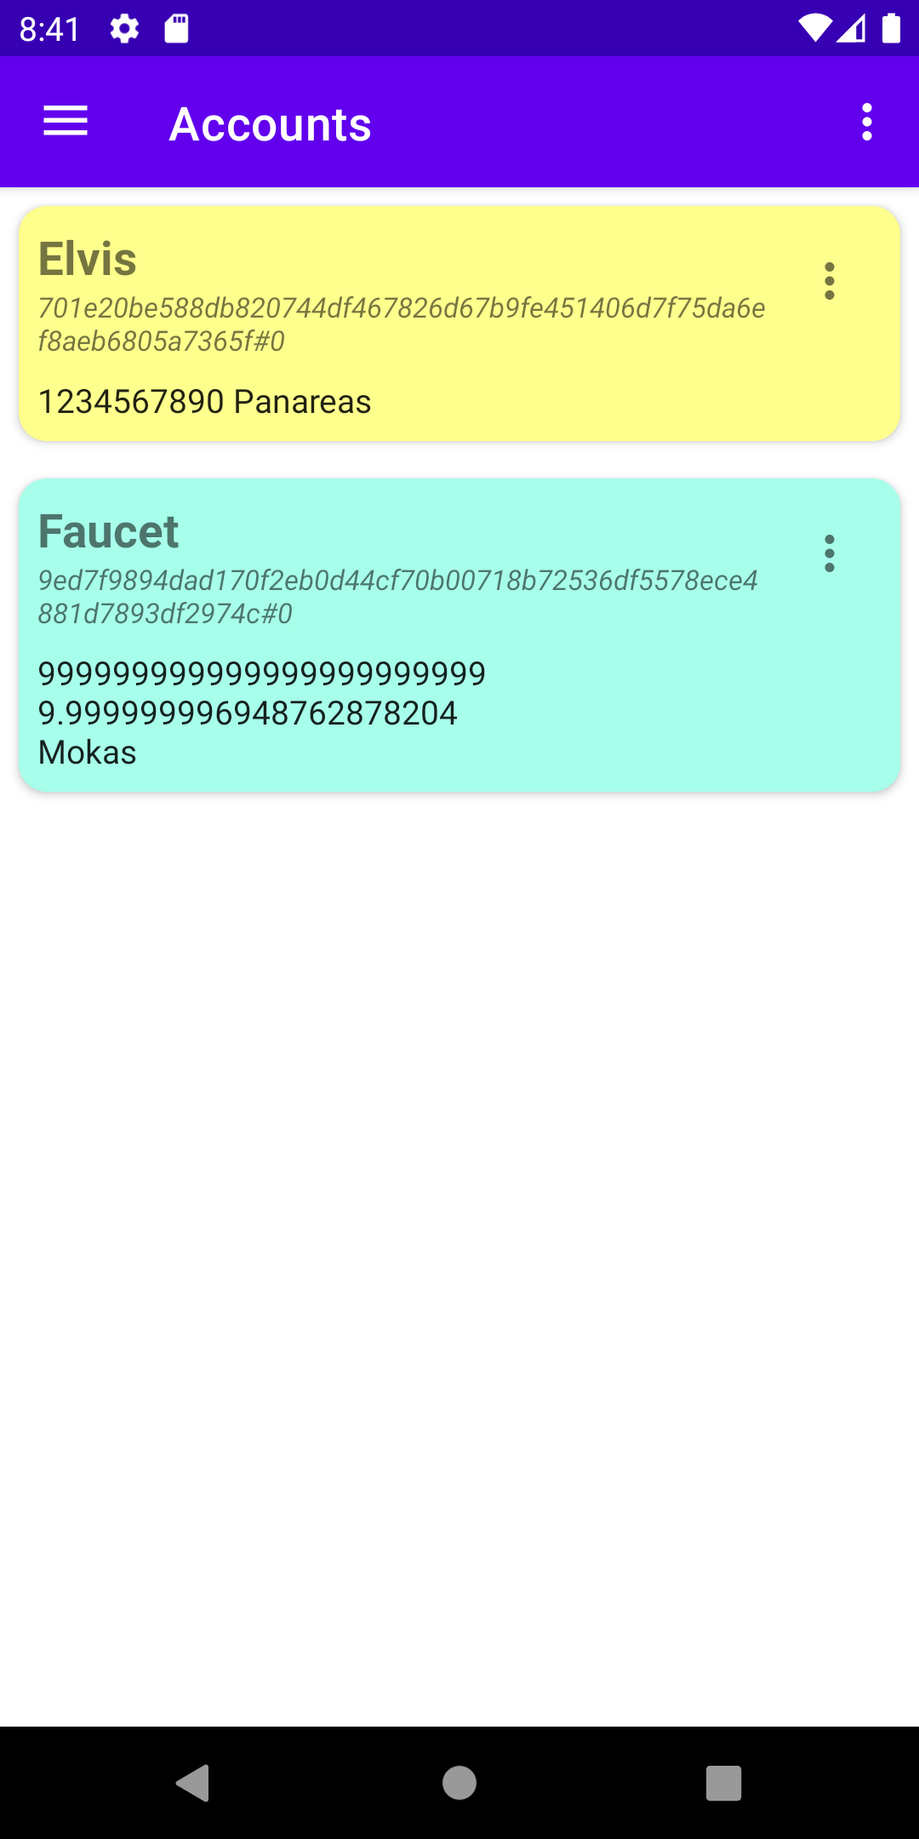
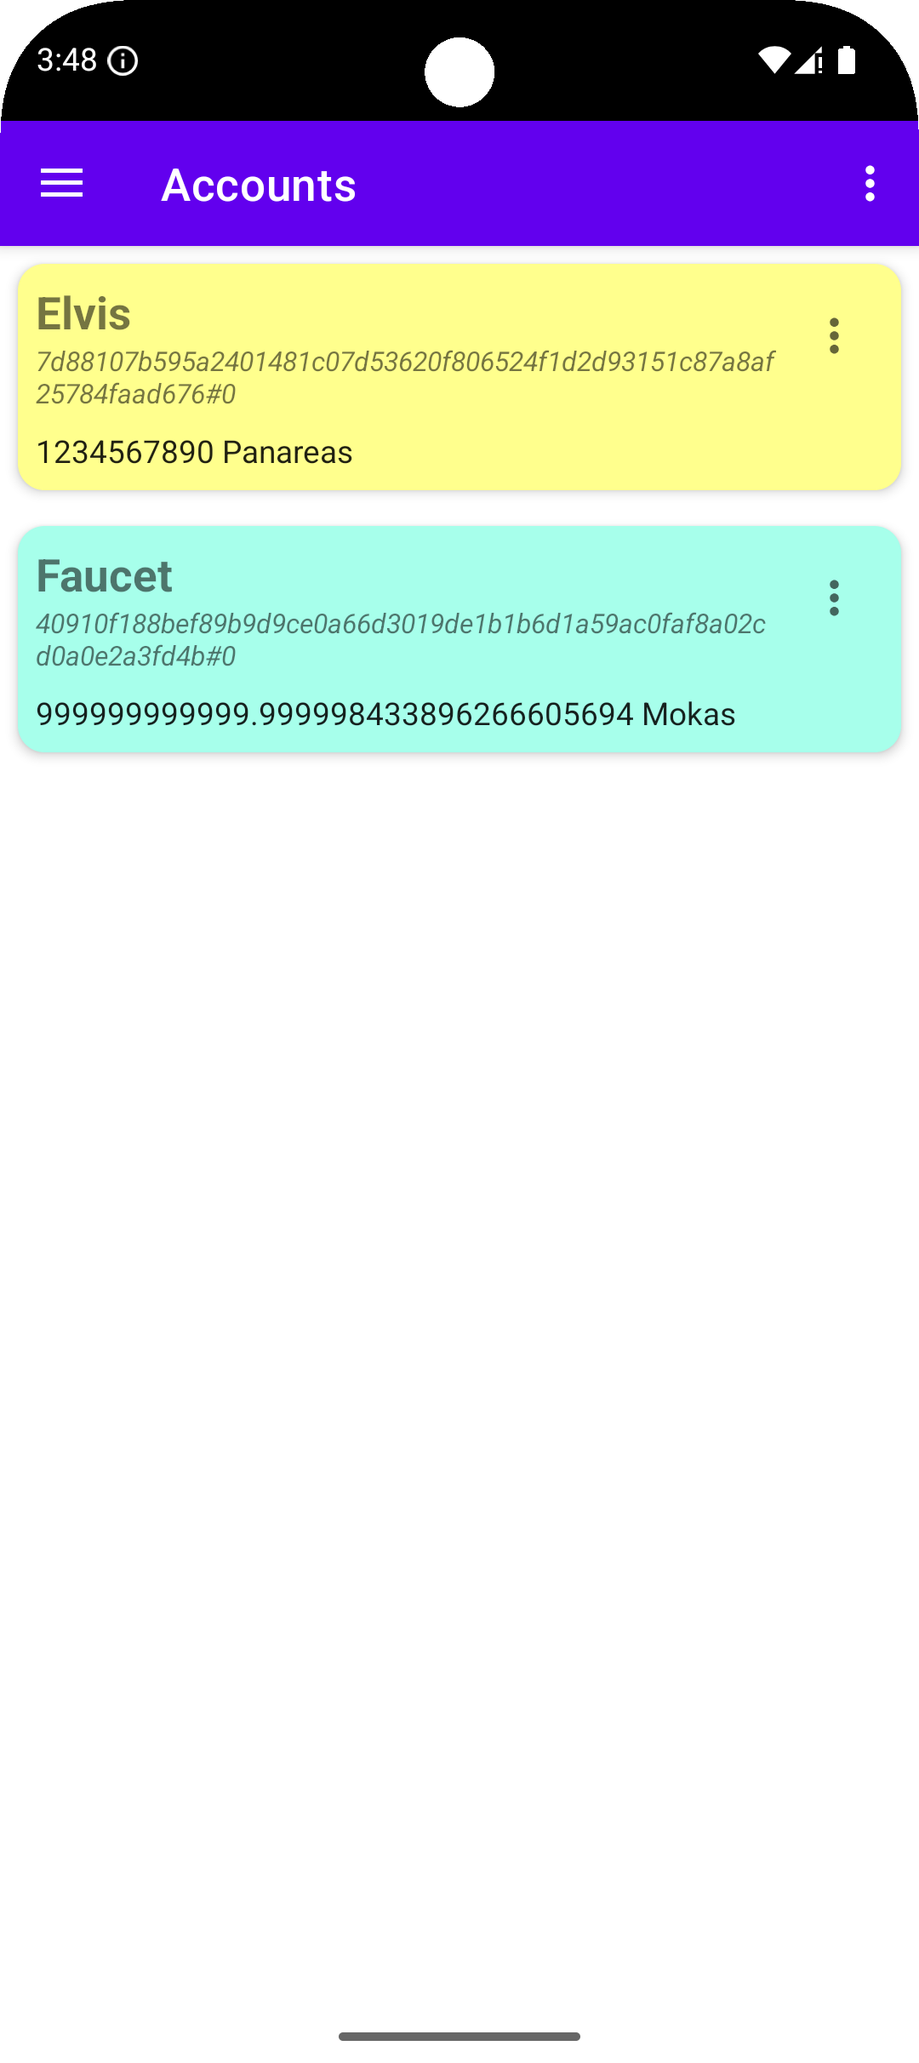
Added the import account documentation to the tutorial

Changed region(s): [[0.0, 0.0, 1.0, 0.4343], [0.0, 0.9306, 1.0, 1.0]]

diff --git a/io-hotmoka-tutorial/src/main/latex/getting_started.tex b/io-hotmoka-tutorial/src/main/latex/getting_started.tex
@@ -313,7 +313,7 @@ top left area of the app.
 %
 \begin{figure}[t]
   \begin{center}
-    \includegraphics[width=6cm]{pics/mokito_start}
+    \includegraphics[width=5cm]{pics/mokito_start}
   \end{center}
   \caption{The starting screen of the Mokito app.}
   \label{fig:mokito_start}
@@ -407,7 +407,7 @@ already contains some code and some Java objects, as shown in Fig.~\ref{fig:mani
     \end{tikzpicture}
   \end{center}
 
-  \caption{Manifest, gamete, gas station and validators.\index{gamete}\index{manifest}\index{gas station}\index{validators}}
+  \caption{Manifest, gamete, gas station and validators.}
   \label{fig:manifest}
 \end{figure}
 %
@@ -448,24 +448,25 @@ We have used the moka command to see the manifest of a node. You can also use th
 Mokito app for that. Namely, tap on the app menu icon on the top-left corner of the screen
 and select \emph{Manifest} from the menu that will appear (see Fig.~\ref{fig:mokito_menu}).
 %
-\begin{figure}[t]
-  \begin{center}
-    \includegraphics[width=6cm]{pics/mokito_menu}
-  \end{center}
+\begin{figure}
+\centering
+\begin{subfigure}{.5\textwidth}
+  \centering
+  \includegraphics[width=.45\linewidth]{pics/mokito_menu}
   \caption{The menu of the Mokito app.}
   \label{fig:mokito_menu}
+\end{subfigure}%
+\begin{subfigure}{.5\textwidth}
+  \centering
+  \includegraphics[width=.45\linewidth]{pics/mokito_manifest}
+  \caption{The manifest of the Hotmoka node.}
+  \label{fig:mokito_manifest}
+\end{subfigure}
+\caption{From the top-level corner menu of Mokito, it is possible to select the \emph{Manifest} item to show the manifest of the Hotmoka node.}
 \end{figure}
 %
 After tapping on \emph{Manifest}, a new screen will appear, containing the same information
 that we saw with the command \texttt{moka nodes manifest show} (see Fig.~\ref{fig:mokito_manifest}).
-%
-\begin{figure}[t]
-  \begin{center}
-    \includegraphics[width=6cm]{pics/mokito_manifest}
-  \end{center}
-  \caption{The manifest of the Hotmoka node, shown in the Mokito app.}
-  \label{fig:mokito_manifest}
-\end{figure}
 
 \section{Creation of a first account}\label{sec:creation_account}
 
@@ -526,7 +527,7 @@ password of the account (in our case, we have chosen \texttt{chocolate}),
 it allows its owner to control your account and spend its coins.
 Note that the password is not written anywhere: if you lose it, it cannot be recovered.
 
-Let us check that our account really exists at its address,
+Let us check that our account really exists,
 by querying the node about the state of the object allocated at \texttt{\accountOne}:
 %
 \input{moka_objects_show_account1_command}
@@ -555,3 +556,184 @@ will refer to the jar that contains its bytecode.
 In the following, you can use the \texttt{moka objects show} command on any object,
 not just on your own accounts, whenever you want to inspect its state
 (that includes the state inherited from its superclasses).
+
+\begin{figure}[t]
+  \begin{center}
+    \begin{tikzpicture}[scale=0.5,>=Stealth]
+      \draw[rounded corners] (0,-9) rectangle (21,19.3) [fill=statebackgroundcolor];
+
+      \draw[rounded corners] (0.5,16) rectangle +(20,2.8) [fill=jarbackgroundcolor];
+      \draw (1,18) node[right] {jar: classes of the Takamaka runtime, such as};
+      \draw (1,17) node[right] {\texttt{Contract}, \texttt{Storage}, \texttt{@View}, \texttt{@FromContract}\ldots};
+      \draw (-2,18.2) node[left] {Takamaka code};
+      \draw (-2,17.1) node[left] {at \texttt{\takamakaCodeShort{}}};
+      \draw[->,thick] (-2,17.5) -- +(2.5,0);
+
+      \draw[->,thick] (6,13.3) -- +(0,2.7);
+      \draw (6,14.8) node[left] {classpath};
+      \draw (-2,12.8) node[left] {manifest};
+      \draw (-2,11.7) node[left] {at \texttt{\manifestShort{}}};
+      \draw[->,thick] (-2,12.3) -- +(2.5,0);
+
+      \draw[rounded corners] (0.5,10.8) rectangle +(11,2.8) [fill=objectbackgroundcolor];
+      \draw (1,12.7) node[right] {chainId: \chainId{}};
+      \draw (1,11.7) node[right] {signature: ed25519};
+
+      \draw[<-,thick] (4,8.1) -- +(0,2.7);
+      \draw (4,9.5) node[right] {gamete};
+      \draw[->,thick] (2,10.8) .. controls (2,5) .. node[very near start,sloped,above] {\small gas station} (3,3.8);
+      \draw[->,thick] (1,10.8) .. controls (1,2) .. node[near end,sloped,below] {\small validators} (1.5,-1.2);
+
+      \draw[rounded corners] (3,5.3) rectangle +(8,2.8) [fill=objectbackgroundcolor];
+      \draw (3.5,6.7) node[right] {balance: 9999\ldots};
+      \draw (-2,7.2) node[left] {gamete};
+      \draw (-2,6.1) node[left] {at \texttt{\gameteShort{}}};
+      \draw[->,thick] (-2,6.7) -- +(5,0);
+      \draw[->,thick] (10,8.1) .. controls (14,13) .. node[near end,sloped,below] {classpath} (14,16.1);
+
+      \draw[rounded corners] (2,1) rectangle +(8,2.8) [fill=objectbackgroundcolor];
+      \draw (2.5,2.5) node[right] {gasPrice: 1};
+      \draw (-2,3) node[left] {gas station};
+      \draw (-2,2) node[left] {at \texttt{\gasStationShort{}}};
+      \draw[->,thick] (-2,2.5) -- +(4,0);
+      \draw[->,thick] (9,3.8) .. controls (15,8) .. node[near end,sloped,below] {classpath} (16,16.1);
+
+      \draw[rounded corners] (0.5,-4) rectangle +(10.5,2.8) [fill=objectbackgroundcolor];
+      \draw (1,-2) node[right] {number of validators: 0};
+      \draw (1,-3.1) node[right] {current supply: 1209\ldots};
+      \draw (-2,-2) node[left] {validators};
+      \draw (-2,-3) node[left] {at \texttt{\validatorsShort{}}};
+      \draw[->,thick] (-2,-2.5) -- +(2.5,0);
+      \draw[->,thick] (9.5,-1.2) .. controls (17,8) .. node[near end,sloped,below] {classpath} (18,16.1);
+
+      \draw[rounded corners] (3,-8.5) rectangle +(11,2.8) [fill=objectbackgroundcolor];
+      \draw (3.5,-7) node[right] {balance: \accountOneBalance};
+      \draw (-2,-6.6) node[left] {account1};
+      \draw (-2,-7.7) node[left] {at \texttt{\accountOneShort{}}};
+      \draw[->,thick] (-2,-7) -- +(5,0);
+      \draw[->,thick] (10,-5.7) .. controls (18,0) .. node[near end,sloped,below] {classpath} (20,16.1);
+    \end{tikzpicture}
+  \end{center}
+
+  \caption{The state of the network nodes after the creation of our new account.}
+  \label{fig:state_with_account}
+\end{figure}
+
+Fig.~\ref{fig:state_with_account}
+shows the state of the network nodes after the creation of our new account.
+Since out test node is part of a blockchain, it is not only its state that has been modified,
+but also that of all nodes that are part of that blockchain.
+
+Whenever your account will run out of coins, you can recharge it with the
+\texttt{moka send} command, by using, again, the faucet as source of coins. Namely,
+if you want to recharge your account with \accountOneRecharge{} extra coins, you can type:
+%
+\input{moka_accounts_send_account1_command}
+\input{moka_accounts_send_account1_output}
+%
+You can then use the \texttt{moka objects show} command to verify that the balance of
+your account has been actually increased with \accountOneRecharge{} extra coins.
+
+The creation of a new account from the faucet is possible from the Mokito app as well.
+Namely, use the menu of the app to tap on the \emph{Accounts} item to see the
+list of available accounts (Fig.~\ref{fig:mokito_start}). From there, tap on the
+menu icon on the right of the \emph{Faucet} account and select \emph{Create a new account}
+(see Fig.~\ref{fig:mokito_new_account}).
+%
+\begin{figure}
+\centering
+\begin{subfigure}{.5\textwidth}
+  \centering
+  \includegraphics[width=.45\linewidth]{pics/mokito_new_account}
+  \caption{The menu for creating a new account.}
+  \label{fig:mokito_new_account}
+\end{subfigure}%
+\begin{subfigure}{.5\textwidth}
+  \centering
+  \includegraphics[width=.45\linewidth]{pics/mokito_elvis_new_account}
+  \caption{The form specifying a new account Elvis.}
+  \label{fig:mokito_elvis_new_account}
+\end{subfigure}
+\caption{From the contextual menu of the faucet account in Mokito, it is possible to require the creation of a new account, by specifying its name, password and initial balance.}
+\end{figure}
+%
+A form will appear, where you can specify the
+name for the account, its password and the initial balance (that will be paid by the faucet).
+For instance, you can fill it as in Fig.~\ref{fig:mokito_elvis_new_account}.
+%
+\begin{commentbox}
+The name of the accounts is a feature of Mokito to simplify the identification
+of the accounts. However, keep in mind that accounts have no name in Hotmoka: they
+are just identified by their storage reference. For instance, moka currently does not
+allow one to associate names to accounts.
+\end{commentbox}
+%
+After tapping on the \emph{Create new account} button, the new account will be created and
+its information will be shown, as in Fig.~\ref{fig:mokito_show_elvis}.
+Note, in this screen, the storage reference of the new account
+and the presence of a 36 words passphrase.
+%
+\begin{figure}
+\centering
+\begin{subfigure}{.5\textwidth}
+  \centering
+  \includegraphics[width=.45\linewidth]{pics/mokito_show_elvis}
+  \caption{The new account Elvis.}
+  \label{fig:mokito_show_account}
+\end{subfigure}%
+\begin{subfigure}{.5\textwidth}
+  \centering
+  \includegraphics[width=.45\linewidth]{pics/mokito_added_elvis}
+  \caption{Elvis added to the list of accounts.}
+  \label{fig:mokito_added_elvis}
+\end{subfigure}
+\caption{The new account is identified by its BIP39 passphrase. After its creation, it is added to the list of accounts in Mokito.}
+\end{figure}
+%
+If you go back to the accounts screen (by using the top-left menu of Mokito),
+you will see that Elvis
+has been added to your accounts (see Fig.~\ref{fig:mokito_added_elvis}).
+
+\section{Importing accounts}\label{sec:importing_accounts}
+
+We have created \texttt{\accountOneShort{}} with moka and
+\texttt{\accountMokitoShort{}} with Mokito. We might want to \emph{import} the former in Mokito
+and the latter in moka, so that we can operate on both accounts with both tools. In order to import
+\texttt{\accountMokitoShort{}} in moka, we can use the \texttt{moka accounts import} command
+and insert its 36 words passphrase from Fig.~\ref{fig:mokito_show_elvis}:
+%
+\input{moka_accounts_import_account_mokito_command}
+\input{moka_accounts_import_account_mokito_output}
+%
+After that, it is possible to control that account with moka (if we remember
+its password, that is, \texttt{chocolate}).
+
+Vice versa, in order to import into Mokito the account that was created with moka,
+first export the 36 words of that account:
+
+\begin{figure}[t]
+\centering
+\begin{subfigure}{.5\textwidth}
+  \centering
+  \includegraphics[width=.45\linewidth]{pics/mokito_accounts_menu}
+  \caption{The menu of the accounts screen.}
+  \label{fig:mokito_accounts_menu}
+\end{subfigure}%
+\begin{subfigure}{.5\textwidth}
+  \centering
+  \includegraphics[width=.45\linewidth]{pics/mokito_insert_passphrase}
+  \caption{Inserting the 36 words passphrase in Mokito.}
+  \label{fig:mokito_insert_passphrase}
+\end{subfigure}
+\caption{In order to import an account in Mokito the top-right menu of the accounts screen allows one to insert the passphrase that identifies the account to import and its password.}
+\end{figure}
+
+\begin{figure}[t]
+  \begin{center}
+    \includegraphics[width=5cm]{pics/mokito_added_the_boss}
+  \end{center}
+  \caption{The new account The Boss has been imported.}
+  \label{fig:mokito_added_the_boss}
+\end{figure}
+
+

diff --git a/io-hotmoka-tutorial/src/main/java/io/hotmoka/tutorial/UpdateForNewNode2.java b/io-hotmoka-tutorial/src/main/java/io/hotmoka/tutorial/UpdateForNewNode2.java
@@ -198,16 +198,21 @@ public class UpdateForNewNode2 {
 			createCommandFile("moka_objects_show_account1", "moka objects show " + account1 + " --uri " + mokamintURI);
 			createOutputFile("moka_objects_show_account1", mokaObjectShowAccount1Output);
 
+			var recharge = 200000;
+			report("accountOneRecharge", String.valueOf(recharge));
+			createCommandFile("moka_accounts_send_account1", "moka accounts send faucet " + recharge + " " + account1 + " --uri=" + mokamintURI);
+			var output10 = Moka.accountsSend("faucet " + recharge + " " + account1 + " --uri=" + mokamintURI + " --timeout=" + TIMEOUT);
+			createOutputFile("moka_accounts_send_account1", output10);
+
+			var accountMokito = StorageValues.reference("826b150ccd5bf7ac6d8b07a7d3d12eba2c0eada93a91318e3b8a61397c702412#0");
+			report("accountMokito", accountMokito);
+			reportShort("accountMokito", accountMokito);
+
+			createCommandFile("moka_accounts_import_account_mokito", "moka accounts import bench cradle hat deer game nation stage extra elite alarm pupil eight sudden amused uniform clip catch apart alpha autumn fat away theme ski excuse truly gospel clay silent stairs route pyramid exile find outside decade");
+			var output11 = Moka.accountsImport("bench cradle hat deer game nation stage extra elite alarm pupil eight sudden amused uniform clip catch apart alpha autumn fat away theme ski excuse truly gospel clay silent stairs route pyramid exile find outside decade");
+			createOutputFile("moka_accounts_import_account_mokito", output11);
+
 			/*
-			String account1String = account1.toString();
-			int account1ProgressivePos = account1String.lastIndexOf('#');
-			String account1Short = account1String.substring(0, 11) + "..." + account1String.substring(account1ProgressivePos);
-			report("sed -i 's/@short_account1/" + account1Short + "/g' target/pics/state2.fig");
-			report("sed -i 's/@short_account1/" + account1Short + "/g' target/pics/state3.fig");
-
-			var output10 = AccountsSendOutputs.from(Moka.accountsSend("faucet 200000 " + account1 + " --uri=" + mokamintURI + " --json --timeout=" + TIMEOUT));
-			report("sed -i 's/@transaction_recharge_account1/" + output10.getTransaction() + "/g' target/Tutorial.md");
-
 			var output11 = AccountsExportOutputs.from(Moka.accountsExport(account1 + " --dir=" + dir + " --json"));
 			var ai = new AtomicInteger(1);
 			String words = output11.getBip39Words().map(s -> String.format("%2d: %s", ai.getAndIncrement(), s)).collect(Collectors.joining("\\n"));
@@ -444,7 +449,7 @@ public class UpdateForNewNode2 {
 		}
 
 		private void reportShort(String command, TransactionReference reference) {
-			report(command + "Short", reference.toString().substring(0, 16));
+			report(command + "Short", reference.toString().substring(0, 16) + "\\ldots\\#");
 		}
 
 		private void createCommandFile(String filename, String content) throws FileNotFoundException {

diff --git a/io-hotmoka-tutorial/src/main/latex/parameters.tex b/io-hotmoka-tutorial/src/main/latex/parameters.tex
@@ -6,7 +6,7 @@
 \newcommand{\serverMokamint}{{ws://panarea.hotmoka.io:8001}}
 \newcommand{\serverTendermint}{{ws://panarea.hotmoka.io:8002}}
 \newcommand{\takamakaCode}{{0d0f8f8232e4931a7f2f2e0fae7c5f63c6c31d35b1fcd22494e7c3a21fb8d2af}}
-\newcommand{\takamakaCodeShort}{{0d0f8f8232e4931a}}
+\newcommand{\takamakaCodeShort}{{0d0f8f8232e4931a\ldots\#}}
 \newcommand{\manifest}{{5aa66b315323008e3f33b51fd74bf3f4ab2b85471fad48a1938e56dbe6e4c344\#0}}
 \newcommand{\manifestShort}{{5aa66b315323008e\ldots\#0}}
 \newcommand{\gamete}{{40910f188bef89b9d9ce0a66d3019de1b1b6d1a59ac0faf8a02cd0a0e2a3fd4b\#0}}
@@ -17,11 +17,14 @@
 \newcommand{\validatorsShort}{{5aa66b315323008e\ldots\#1}}
 \newcommand{\maxFaucet}{{10000000000000000}}
 \newcommand{\chainId}{{octopus}}
-\newcommand{\accountOnePublicKeyBaseFiftyeight}{{DcVP9crpVBfneegnYYkzEzWVj1UWbPGdkMNXFuF2Q6G1}}
-\newcommand{\accountOnePublicKeyBaseSixtyfour}{{u2OptRFFZBcbNMlSyDmT8O2tFOm4EuxuwI7+N+lw+oI=}}
-\newcommand{\accountOneTendermintAddress}{{5CC1B0B8CD6238E279EF07CED81613C0FD1BBC26}}
-\newcommand{\accountOnePublicKeyBaseSixtyfourShort}{{u2OptRFFZBcbNMlS}}
+\newcommand{\accountOnePublicKeyBaseFiftyeight}{{BZ6TRUmFkba5iPnvXex7oAJ24GUMBzJ7cNboht1CgoDN}}
+\newcommand{\accountOnePublicKeyBaseSixtyfour}{{nM2fry68FoKdpQilD6KQ7pBqBSYgwfk+uH5qfTvHe80=}}
+\newcommand{\accountOneTendermintAddress}{{1EDADBB53C3E4CA92BA97D0BCC5035F26E62F30F}}
+\newcommand{\accountOnePublicKeyBaseSixtyfourShort}{{nM2fry68FoKdpQil\ldots}}
 \newcommand{\accountOneBalance}{{50000000000000}}
-\newcommand{\accountOneTransaction}{{36124267c0efc8bbf876c3e3a413c70397e985ce80d4435a2160348ab9df936e}}
-\newcommand{\accountOne}{{36124267c0efc8bbf876c3e3a413c70397e985ce80d4435a2160348ab9df936e\#0}}
-\newcommand{\accountOneShort}{{36124267c0efc8bb\ldots\#0}}
+\newcommand{\accountOneTransaction}{{aa3cad85942ae1c3ad0ae72b6698358fad697146db83a38df5da15c09602ad7a}}
+\newcommand{\accountOne}{{aa3cad85942ae1c3ad0ae72b6698358fad697146db83a38df5da15c09602ad7a\#0}}
+\newcommand{\accountOneShort}{{aa3cad85942ae1c3\ldots\#0}}
+\newcommand{\accountOneRecharge}{{200000}}
+\newcommand{\accountMokito}{{826b150ccd5bf7ac6d8b07a7d3d12eba2c0eada93a91318e3b8a61397c702412\#0}}
+\newcommand{\accountMokitoShort}{{826b150ccd5bf7ac\ldots\#0}}

diff --git a/io-hotmoka-tutorial/src/main/latex/moka_nodes_manifest_show_output.tex b/io-hotmoka-tutorial/src/main/latex/moka_nodes_manifest_show_output.tex
@@ -10,7 +10,7 @@
    ├─ skips verification: false
    ├─ signature: ed25519
    ├─ gamete: 40910f188bef89b9d9ce0a66d3019de1b1b6d1a59ac0faf8a02cd0a0e2a3fd4b#0
-   │  ├─ balance: 999999999999999998533899970849306
+   │  ├─ balance: 999999999999999998383896266545141
    │  └─ max faucet: 10000000000000000
    ├─ gas station: 5aa66b315323008e3f33b51fd74bf3f4ab2b85471fad48a1938e56dbe6e4c344#e
    │  ├─ initial gas price: 100
@@ -22,11 +22,11 @@
    ├─ validators: 5aa66b315323008e3f33b51fd74bf3f4ab2b85471fad48a1938e56dbe6e4c344#1
    │  ├─ number of validators: 0
    │  ├─ initial supply: 1000000000000000000000000000000000
-   │  ├─ current supply: 1212581134467228172399749176465849
+   │  ├─ current supply: 1215241466795689485807259616294891
    │  ├─ final supply: 10000000000000000000000000000000000
    │  ├─ height at final supply: 42048000
-   │  ├─ height: 333701
-   │  ├─ number of transactions: 119
+   │  ├─ height: 337911
+   │  ├─ number of transactions: 126
    │  ├─ ticket for new poll: 100000
    │  └─ number of polls: 0
    ├─ initial validators: 5aa66b315323008e3f33b51fd74bf3f4ab2b85471fad48a1938e56dbe6e4c344#c

diff --git a/io-hotmoka-tutorial/src/main/latex/moka_keys_create_account1_output.tex b/io-hotmoka-tutorial/src/main/latex/moka_keys_create_account1_output.tex
@@ -1,7 +1,7 @@
 \begin{shellbox}\begin{ttlst}
 Enter value for --password (the password that will be needed later to use the key pair): chocolate
 The new key pair has been written into "account1.pem":
-* public key: DcVP9crpVBfneegnYYkzEzWVj1UWbPGdkMNXFuF2Q6G1 (ed25519, base58)
-* public key: u2OptRFFZBcbNMlSyDmT8O2tFOm4EuxuwI7+N+lw+oI= (ed25519, base64)
-* Tendermint-like address: 5CC1B0B8CD6238E279EF07CED81613C0FD1BBC26
+* public key: BZ6TRUmFkba5iPnvXex7oAJ24GUMBzJ7cNboht1CgoDN (ed25519, base58)
+* public key: nM2fry68FoKdpQilD6KQ7pBqBSYgwfk+uH5qfTvHe80= (ed25519, base64)
+* Tendermint-like address: 1EDADBB53C3E4CA92BA97D0BCC5035F26E62F30F
 \end{ttlst}\end{shellbox}

diff --git a/io-hotmoka-tutorial/src/main/latex/docker_run_moka_objects_show_account1_output.tex b/io-hotmoka-tutorial/src/main/latex/docker_run_moka_objects_show_account1_output.tex
@@ -2,5 +2,5 @@
 class io.takamaka.code.lang.ExternallyOwnedAccountED25519 (from jar installed at 0d0f8f8232e4931a7f2f2e0fae7c5f63c6c31d35b1fcd22494e7c3a21fb8d2af)
   io.takamaka.code.lang.Contract.balance:java.math.BigInteger = 50000000000000
   io.takamaka.code.lang.ExternallyOwnedAccount.nonce:java.math.BigInteger = 0
-  io.takamaka.code.lang.ExternallyOwnedAccount.publicKey:java.lang.String = "u2OptRFFZBcbNMlSyDmT8O2tFOm4EuxuwI7+N+lw+oI="
+  io.takamaka.code.lang.ExternallyOwnedAccount.publicKey:java.lang.String = "nM2fry68FoKdpQilD6KQ7pBqBSYgwfk+uH5qfTvHe80="
 \end{ttlst}\end{shellbox}

diff --git a/io-hotmoka-tutorial/src/main/latex/moka_objects_show_account1_output.tex b/io-hotmoka-tutorial/src/main/latex/moka_objects_show_account1_output.tex
@@ -2,5 +2,5 @@
 class io.takamaka.code.lang.ExternallyOwnedAccountED25519 (from jar installed at 0d0f8f8232e4931a7f2f2e0fae7c5f63c6c31d35b1fcd22494e7c3a21fb8d2af)
   io.takamaka.code.lang.Contract.balance:java.math.BigInteger = 50000000000000
   io.takamaka.code.lang.ExternallyOwnedAccount.nonce:java.math.BigInteger = 0
-  io.takamaka.code.lang.ExternallyOwnedAccount.publicKey:java.lang.String = "u2OptRFFZBcbNMlSyDmT8O2tFOm4EuxuwI7+N+lw+oI="
+  io.takamaka.code.lang.ExternallyOwnedAccount.publicKey:java.lang.String = "nM2fry68FoKdpQilD6KQ7pBqBSYgwfk+uH5qfTvHe80="
 \end{ttlst}\end{shellbox}

diff --git a/io-hotmoka-tutorial/src/main/latex/moka_accounts_create_account1_output.tex b/io-hotmoka-tutorial/src/main/latex/moka_accounts_create_account1_output.tex
@@ -1,7 +1,7 @@
 \begin{shellbox}\begin{ttlst}
 Enter value for --password (the password of the key pair): chocolate
-A new account 36124267c0efc8bbf876c3e3a413c70397e985ce80d4435a2160348ab9df936e#0 has been created.
-Its key pair has been saved into the file "36124267c0efc8bbf876c3e3a413c70397e985ce80d4435a2160348ab9df936e#0.pem".
+A new account aa3cad85942ae1c3ad0ae72b6698358fad697146db83a38df5da15c09602ad7a#0 has been created.
+Its key pair has been saved into the file "aa3cad85942ae1c3ad0ae72b6698358fad697146db83a38df5da15c09602ad7a#0.pem".
 
 Gas consumption:
  * total: 60553

diff --git a/io-hotmoka-tutorial/src/main/latex/docker_run_moka_objects_show_account1_command.tex b/io-hotmoka-tutorial/src/main/latex/docker_run_moka_objects_show_account1_command.tex
@@ -1,2 +1,2 @@
 \begin{shellcommandbox}\begin{ttlst}
-docker run -it --rm hotmoka/mokamint-node:1.11.4 moka objects show 36124267c0efc8bbf876c3e3a413c70397e985ce80d4435a2160348ab9df936e#0 --uri ws://panarea.hotmoka.io:8001\end{ttlst}\end{shellcommandbox}
+docker run -it --rm hotmoka/mokamint-node:1.11.4 moka objects show aa3cad85942ae1c3ad0ae72b6698358fad697146db83a38df5da15c09602ad7a#0 --uri ws://panarea.hotmoka.io:8001\end{ttlst}\end{shellcommandbox}

diff --git a/io-hotmoka-tutorial/src/main/latex/moka_objects_show_account1_command.tex b/io-hotmoka-tutorial/src/main/latex/moka_objects_show_account1_command.tex
@@ -1,2 +1,2 @@
 \begin{shellcommandbox}\begin{ttlst}
-moka objects show 36124267c0efc8bbf876c3e3a413c70397e985ce80d4435a2160348ab9df936e#0 --uri ws://panarea.hotmoka.io:8001\end{ttlst}\end{shellcommandbox}
+moka objects show aa3cad85942ae1c3ad0ae72b6698358fad697146db83a38df5da15c09602ad7a#0 --uri ws://panarea.hotmoka.io:8001\end{ttlst}\end{shellcommandbox}

diff --git a/io-hotmoka-tutorial/src/main/latex/moka_accounts_import_account_mokito_command.tex b/io-hotmoka-tutorial/src/main/latex/moka_accounts_import_account_mokito_command.tex
@@ -1,0 +1,2 @@
+\begin{shellcommandbox}\begin{ttlst}
+moka accounts import bench cradle hat deer game nation stage extra elite alarm pupil eight sudden amused uniform clip catch apart alpha autumn fat away theme ski excuse truly gospel clay silent stairs route pyramid exile find outside decade\end{ttlst}\end{shellcommandbox}

diff --git a/io-hotmoka-tutorial/src/main/latex/moka_accounts_send_account1_command.tex b/io-hotmoka-tutorial/src/main/latex/moka_accounts_send_account1_command.tex
@@ -1,0 +1,2 @@
+\begin{shellcommandbox}\begin{ttlst}
+moka accounts send faucet 200000 aa3cad85942ae1c3ad0ae72b6698358fad697146db83a38df5da15c09602ad7a#0 --uri=ws://panarea.hotmoka.io:8001\end{ttlst}\end{shellcommandbox}
